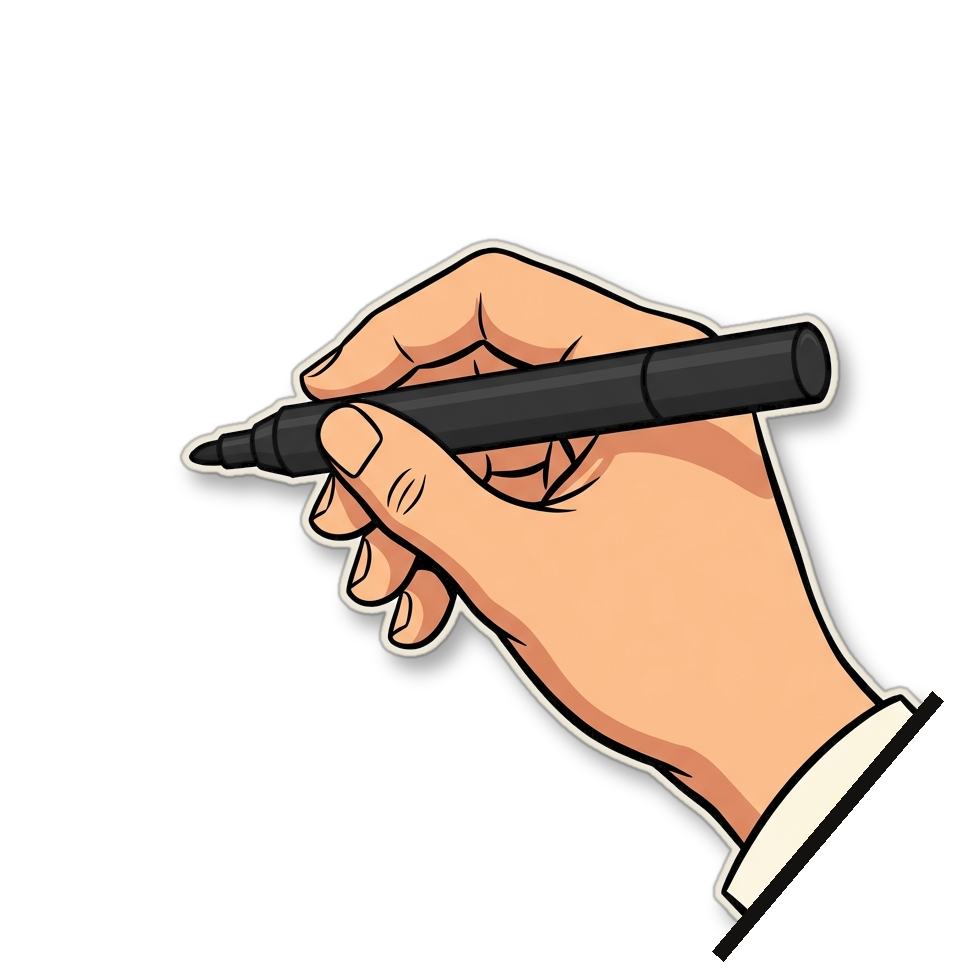
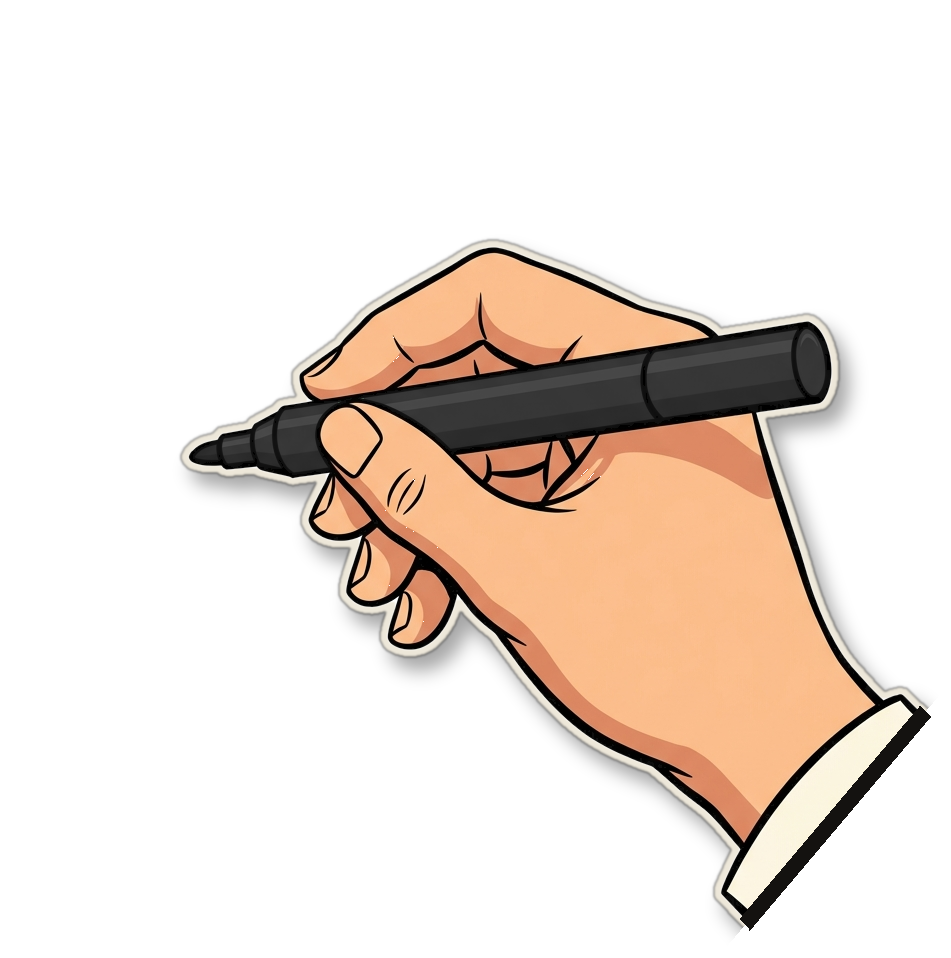
Rule 21: no narrator hand wears Larry's sleeve from Ep.4 on (cuff variants of every sleeved hand, episode config hands.sleeve=false); Ep.4 QC fixes from r77: marks finish inside their shots (o2/c5 holds, chained hands in a5/n1/l5), a6/l3b prices in window B's glass, 67 YEARS inside the frame, a11/z0
Claude-Session: https://claude.ai/code/session_013pWx4qcpXPWropjuHuEZgS

Changed region(s): [[0.183, 0.2422, 1.0, 0.999]]

diff --git a/episodes/0005-drip-pricing/gen_script.py b/episodes/0005-drip-pricing/gen_script.py
@@ -195,7 +195,7 @@ beat("o2", S_OPEN, "Then the fees. Eight. Six. Four.",
                                          write("+ $6 fee", on="Six.", chain=True, dur=0.45, **FEE(FEE_Y[1])),
                                          write("+ $4 fee", on="Four.", chain=True, dur=0.45, **FEE(FEE_Y[2]))]),
      # (Klot, option 2: the fee rows and PAID go on Larry's tab in one pass at b1, "Eighteen dollars of fees")
-     label="Illustration")
+     label="Illustration", hold=0.35)  # the third fee finishes before the cut
 beat("o3", S_OPEN, "Total: forty-eight.",
      reuse("o1", hand_marks=True,  # no push: the fee column stays clear of Larry's tab and of the ILLUSTRATION plate
            marks=[write("$30", at=0.0, **TICKET_PRICE_BOX, color="ink"),
@@ -248,13 +248,13 @@ beat("a4", S_EXP, "For a couple of years before that summer, it showed every fee
      label="Illustration")
 beat("a5", S_EXP, "Then, for twelve days in August 2015, it split its buyers in two.",
      img("a 1950s theatre lobby with a velvet rope splitting a queue of cheerful cartoon ticket buyers into two lines in front of two identical ticket windows, front view",
-         motion="static", hand_marks=True, marks=[write("A", on="split", x=0.30, y=0.20, w=0.05, h=0.08), write("B", on="two.", x=0.70, y=0.20, w=0.05, h=0.08)]),
+         motion="static", hand_marks=True, marks=[write("A", on="split", x=0.30, y=0.20, w=0.05, h=0.08), write("B", on="buyers", chain=True, x=0.70, y=0.20, w=0.05, h=0.08)]),
      label="Aug 19–31, 2015")
 beat("a6", S_EXP, "Half kept the full price on screen. The other half saw the ticket alone, with the fees waiting at checkout.",
      reuse("a5", hand_marks=True, marks=[write("A", at=0.0, x=0.30, y=0.20, w=0.05, h=0.08), write("B", at=0.0, x=0.70, y=0.20, w=0.05, h=0.08),
-                                         write("$48", on="full", x=0.30, y=0.30, w=0.09, h=0.07), write("$30…", on="alone,", x=0.70, y=0.30, w=0.10, h=0.07)],
-           closeup=closeup("fees", [0.70, 0.40], 1.8, [write("B", at=0.0, x=0.70, y=0.20, w=0.05, h=0.08), write("$30…", at=0.0, x=0.70, y=0.30, w=0.10, h=0.07),
-                                                       write("+ fees at checkout", on="checkout.", x=0.70, y=0.40, w=0.20, h=0.05)])),
+                                         write("$48", on="full", x=0.405, y=0.265, w=0.075, h=0.065), write("$30", on="alone,", x=0.605, y=0.255, w=0.07, h=0.06)],
+           closeup=closeup("fees", [0.62, 0.36], 1.7, [write("B", at=0.0, x=0.70, y=0.20, w=0.05, h=0.08), write("$30", at=0.0, x=0.605, y=0.255, w=0.07, h=0.06),
+                                                       write("+ fees", on="waiting", x=0.605, y=0.312, w=0.08, h=0.045)])),  # in window B's glass
      label="Aug 19–31, 2015")
 beat("a7", S_EXP, "Same tickets. Same fees. The only thing that changed was the moment you saw them.", kin())
 beat("a8", S_EXP, "The ones who met the fees late spent almost twenty-one percent more.",
@@ -268,14 +268,15 @@ beat("a10", S_EXP, "And the buyers among them picked seats about five percent pr
          motion="static", hand_marks=True, marks=[write("+5 %", on="five", x=0.70, y=0.40, w=0.10, h=0.07, plate=[1.35, 1.45])]), clip=True),  # cream plate on the seats: the clip's push-in takes the floor away
      pause_at={"word": "five", "sec": 0.5, "hit": "stamp"})
 beat("a11", S_EXP, "A seat looks cheaper when its fees are still offstage, so you pick a better one.",
-     reuse("a10", push={"center": [0.50, 0.55], "zoom": 1.6}),
+     manual(img("last frame of the a10 clip", note="images/a11.png = last frame of clips/a10.mp4", motion="static",
+                push={"center": [0.50, 0.60], "zoom": 1.15})),
      label="Seat choice = at least 28 % of the revenue gap · NBER w25186")
 beat("a12", S_EXP, "Then the fees walk on.",
      manual(img("three small paper price slips with tiny cartoon legs walking onto a 1950s theatre stage in a spotlight, red curtain, playful print-ad style",
          motion="static", hand_marks=True, clip_until=4.0,  # Grok clip: the slips walk to centre stage and stop (frozen at 4.0 s)
-         marks=[write("$8", at=4.05, dur=0.3, x=0.3732, y=0.5499, w=0.065, h=0.09, angle=5.3, color="ink"),
-                write("$6", at=4.47, dur=0.3, chain=True, x=0.4933, y=0.5499, w=0.065, h=0.09, angle=-1.8, color="ink"),
-                write("$4", at=4.89, dur=0.3, chain=True, x=0.6193, y=0.5548, w=0.065, h=0.09, angle=6.1, color="ink")]), clip=True),
+         marks=[write("$8", at=4.05, dur=0.3, x=0.3732, y=0.5499, w=0.065, h=0.09, angle=5.3, color="ink", short={"x": 0.184, "y": 0.544, "angle": -6, "w": 0.06, "h": 0.075, "at": 0.45}),
+                write("$6", at=4.47, dur=0.3, chain=True, x=0.4933, y=0.5499, w=0.065, h=0.09, angle=-1.8, color="ink", short={"x": 0.3, "y": 0.547, "angle": -6, "w": 0.06, "h": 0.075, "at": 0.87}),
+                write("$4", at=4.89, dur=0.3, chain=True, x=0.6193, y=0.5548, w=0.065, h=0.09, angle=6.1, color="ink", short={"x": 0.424, "y": 0.543, "angle": 11, "w": 0.06, "h": 0.075, "at": 1.29})]), clip=True),
      hold=3.6)  # the line, then the three prices go on the stopped slips
 beat("a13", S_EXP, "Twelve days of science. Then the science went live.", kin())
 beat("a14", S_EXP, "On September the first, the whole site switched. Fees at the end, for everyone.",
@@ -286,7 +287,7 @@ beat("a14", S_EXP, "On September the first, the whole site switched. Fees at the
 chapter("t2", S_TM, "Wednesday, ten a.m.", "Wednesday 10:00 AM — $16.4 billion")
 beat("b1", S_TM, "Larry reads his receipt. Eighteen dollars of fees on a forty-eight-dollar ticket.",
      manual(img(f"{LARRY} at a breakfast table frowning at a long paper receipt that unrolls across the table, coffee cup, plain cream background",
-         motion="static", hand_marks=True, marks=[write("$18 FEES", on="Larry", fade_after=0.75, x=0.84, y=0.56, w=0.16, h=0.07)]), clip=True),
+         motion="static", hand_marks=True, marks=[write("$18 FEES", on="Larry", fade_after=0.75, short={"fade_after": None}, x=0.84, y=0.56, w=0.16, h=0.07)]), clip=True),
      ledger=[tab("SERVICE FEE", "+$8.00", "Eighteen", dur=0.42), tab("FACILITY FEE", "+$6.00", "Eighteen", dur=0.42, chain=True),
              tab("PROCESSING FEE", "+$4.00", "Eighteen", dur=0.42, chain=True), tab("PAID", "$48.00", "Eighteen", dur=0.42, chain=True),
              tab("HIDDEN", "$18.00", "Eighteen", dur=0.5, chain=True, loss=True, circle=True)])  # one pass of the tab hand
@@ -345,7 +346,7 @@ beat("c4", S_HOTEL, "from nine to ninety-five dollars, per room, per day.",
 beat("c5", S_HOTEL, "Near the end of booking, the fee sat under a heading that sounded official: Taxes and Fees.",
      reuse("c4", hand_marks=True, marks=[write("$9 – $95 / night", at=0.0, x=0.485, y=0.274, w=0.30, h=0.058)],
            closeup=closeup("booking,", [0.50, 0.62], 1.8, [write("TAXES AND FEES", on="Taxes", x=0.42, y=0.62, w=0.26, h=0.06, color="ink"),
-                                                            circle(0.42, 0.62, 0.30, 0.10, "Fees.", target=[0.29, 0.59, 0.55, 0.65])])))
+                                                            circle(0.42, 0.62, 0.30, 0.10, "Fees.", target=[0.29, 0.59, 0.55, 0.65])])), hold=0.5)
 beat("c6", S_HOTEL, "From customers in D.C. alone, the Attorney General says, that came to millions of dollars.",
      doc("DC Attorney General · press release · July 9, 2019", "Marriott resort fees",
          "Marriott has charged resort fees to tens of thousands of District consumers over the years, totaling millions of dollars.",
@@ -358,7 +359,7 @@ beat("c8", S_HOTEL, "In 2023, Marriott agreed with Texas to show the total price
 # ------------------------------------------------------------------ Why a split price feels cheaper (insert, ~25 s)
 beat("n1", S_BRAIN, "Why does it work? In 1998, three marketing researchers split prices into a base and a surcharge.",
      img("a cream paper price tag being cut into two pieces by a pair of red-handled scissors, plain cream background, 1950s print-ad style",
-         motion="static", hand_marks=True, marks=[write("BASE", on="base", x=0.35, y=0.70, w=0.12, h=0.06), write("+ SURCHARGE", on="surcharge.", x=0.68, y=0.70, w=0.22, h=0.06)]),
+         motion="static", hand_marks=True, marks=[write("BASE", on="split", x=0.35, y=0.70, w=0.12, h=0.06), write("+ SURCHARGE", on="base", chain=True, x=0.68, y=0.70, w=0.22, h=0.06)]),
      label="Morwitz, Greenleaf & Johnson · J. Marketing Research · 1998")
 beat("n2", S_BRAIN, "The total price was the same. It was just served in pieces.",
      reuse("n1", closeup=closeup("served", [0.50, 0.50], 1.6, [write("SAME TOTAL", on="same.", x=0.50, y=0.22, w=0.24, h=0.07)])),
@@ -410,22 +411,23 @@ beat("l3", S_LAW, "In April 2026, StubHub agreed to pay ten million dollars back
      stat(10, "StubHub settlement · FTC · April 2026", prefix="$", suffix="m"),
      pause_at={"word": "ten", "sec": 0.6, "hit": "stamp"})
 beat("l3b", S_LAW, "over fees it showed too late.",
-     reuse("a5", hand_marks=True, push={"center": [0.70, 0.40], "zoom": 1.8},
-           marks=[write("B", at=0.0, x=0.70, y=0.20, w=0.05, h=0.08), write("$30…", at=0.0, x=0.70, y=0.30, w=0.10, h=0.07),
-                  write("+ fees at checkout", at=0.0, x=0.70, y=0.40, w=0.20, h=0.05)]), label="FTC · April 2026 · settlement")
+     reuse("a5", hand_marks=True, push={"center": [0.62, 0.36], "zoom": 1.7},
+           marks=[write("B", at=0.0, x=0.70, y=0.20, w=0.05, h=0.08), write("$30", at=0.0, x=0.605, y=0.255, w=0.07, h=0.06),
+                  write("+ fees", at=0.0, x=0.605, y=0.312, w=0.08, h=0.045)]), label="FTC · April 2026 · settlement")
 beat("l4", S_LAW, "America has done this before. In 1958, a law put a sticker on the window of every new car:",
      arch("car_showroom_1942.jpg", "Car showroom, Pierson Motor Company, Lititz, Pennsylvania, 1942 · Library of Congress", motion="zoom_in"),
      label="Automobile Information Disclosure Act · 1958")
 beat("l5", S_LAW, "the price, every option, the delivery charge, and the total.",
      img("the side window of a 1950s two-tone sedan in a showroom with a large blank paper sticker taped inside the glass, close view",
          motion="static", hand_marks=True,
-         marks=[write("PRICE", on="price,", x=0.50, y=0.30, w=0.16, h=0.05, color="ink"), write("OPTIONS", on="option,", x=0.50, y=0.40, w=0.18, h=0.05, color="ink"),
-                write("DELIVERY", on="delivery", x=0.50, y=0.50, w=0.18, h=0.05, color="ink"), write("TOTAL", on="total.", x=0.50, y=0.62, w=0.16, h=0.06)]),
+         marks=[write("PRICE", on="price,", x=0.50, y=0.30, w=0.16, h=0.05, color="ink"), write("OPTIONS", on="option,", chain=True, x=0.50, y=0.40, w=0.18, h=0.05, color="ink"),
+                write("DELIVERY", on="delivery", chain=True, x=0.50, y=0.50, w=0.18, h=0.05, color="ink"),
+                write("TOTAL", on="total.", chain=True, x=0.50, y=0.62, w=0.16, h=0.06)]),  # one hand writes the list
      label="15 U.S.C. 1232 · 1958")
 beat("l6", S_LAW, "Cars got the total sixty-seven years before concert tickets did.",
      reuse("l5", hand_marks=True, marks=[write("TOTAL", at=0.0, x=0.50, y=0.62, w=0.16, h=0.06),
                                          circle(0.50, 0.62, 0.22, 0.10, "total", target=[0.42, 0.59, 0.58, 0.65]),
-                                         write("67 YEARS", on="sixty-seven", x=0.80, y=0.62, w=0.16, h=0.06)]),
+                                         write("67 YEARS", on="sixty-seven", x=0.56, y=0.185, w=0.17, h=0.06)]),
      pause_at={"word": "sixty-seven", "sec": 0.4, "hit": None})
 beat("l7", S_LAW, "Border two: Britain. Since April 2025, the price must include every fee you can't avoid.",
      reuse("l1", hand_marks=True, marks=[stamp('USA · TOTAL UPFRONT · MAY 2025', 0.35, 0.445, at=0.0, angle=-8, w=0.18), stamp('UK · ALL FEES IN · APRIL 2025', 0.585, 0.58, on='include', angle=6, w=0.18)]))
@@ -457,8 +459,8 @@ beat("l14", S_LAW, "One ticket. Three stamps. One message: show the total.",
 chapter("t6", S_CHECK, "Saturday, ten a.m.", "Saturday 10:00 AM — Three checks")
 beat("x1", S_CHECK, "Three checks before you pay. One. Look for the all-in switch.",
      manual(img("a big chrome 1950s toggle switch on a cream enamel panel, switched to the left, studio lighting, plain background",
-         motion="static", hand_marks=True, marks=[write("ALL-IN PRICES", on="all-in", **X1_TOP), write("OFF", on="One.", **X1_OFF),
-                                                  write("ON", at=4.25, dur=0.35, chain=True, **X1_ON)]), clip=True))  # Grok clip: the lever flips right ~4 s, ON goes on after the click
+         motion="static", hand_marks=True, marks=[write("ALL-IN PRICES", on="checks", **X1_TOP), write("OFF", on="One.", **X1_OFF),
+                                                  write("ON", at=4.25, dur=0.35, **X1_ON)]), clip=True))  # Grok clip: the lever flips right ~4 s, ON goes on after the click
 beat("x2", S_CHECK, "Some ticket sites can show prices with fees included. Turn it on before you browse, not after you've fallen for a seat.",
      manual(img("the last frame of the x1 clip: the switch now set to the right (ON)", note="images/x2.png = last frame of clips/x1.mp4",
          motion="static", hand_marks=True, marks=[write("ALL-IN PRICES", at=0.0, **X2_TOP), write("OFF", at=0.0, **X2_OFF), write("ON", at=0.0, **X2_ON)],
@@ -477,7 +479,8 @@ beat("z0", S_CLOSE, "Case closed. Larry paid forty-eight dollars for a thirty-do
          motion="zoom_in"), clip=True), stamp={"text": "Case closed", "on": "Case", "big": True, "x": 0.685, "y": 0.165, "w": 0.21},  # dark upper right, left of where Larry's tab grows
      hero=True)  # Larry's hand and ticket fill the frame: the tab steps aside (no hand near his hands)
 beat("z0b", S_CLOSE, "He went to the concert anyway. The band was worth thirty. The checkout was worth nothing. Now he knows where the eighteen went.",
-     reuse("z0", push={"center": [0.45, 0.40], "zoom": 1.6}, closeup=closeup("checkout", [0.58, 0.62], 2.0)), hero=True)
+     manual(img("last frame of the z0 clip", note="images/z0b.png = last frame of clips/z0.mp4", motion="static",
+                push={"center": [0.45, 0.40], "zoom": 1.1}, closeup=closeup("checkout", [0.76, 0.43], 1.3))), hero=True)  # on the ticket
 ES = {"number": "004", "title": "The fee at the end", "stamp": "Case closed",
       # four lines at the Ep.3 letter size, each written from its first spoken word (real-voice word times)
       "verdict": ["Guilty: the checkout fee", "and its cousin, the resort fee.", "Accomplice:", "the first number on the screen."],
@@ -500,7 +503,7 @@ beat("z5", S_CLOSE, "Subscribe, so the next case file finds you.", {"type": "con
 LONG = {b["id"]: b for b in B}
 
 
-def L(bid, text=None, keep=("punch", "pause_at", "sfx_at", "sfx", "say", "stamp", "label", "ledger", "alleged"), **kw):
+def L(bid, text=None, keep=("punch", "pause_at", "sfx_at", "sfx", "say", "stamp", "label", "ledger", "alleged", "hold"), **kw):
     src = LONG[bid]
     v = src["visual"]
     if v["type"] in ("image", "archive", "clip"):
@@ -526,7 +529,7 @@ SHORTS = [
      "beats": [L("o1"), L("o2"), L("o3"), L("m1"), L("b6"), L("o1", text="So before you pay thirty, ask what it costs.", keep=())]},
     {"id": "s2", "title": "StubHub tested hidden fees on its own buyers #shorts", "hook": "THEY TESTED IT ON YOU", "hook_on": "a5",
      "beats": [L("a5", text="StubHub showed every fee upfront. Then, for twelve days in August 2015, it split its buyers in two."),
-               L("a6"), L("a8"), L("a9"), L("a10"), L("a12"), L("a14")]},
+               L("a6"), L("a8"), L("a9"), L("a10"), L("a12", hold=0.6), L("a14")]},
     {"id": "s3", "title": "$16.4 billion in fees (alleged) #shorts", "hook": "$16.4 BILLION", "hook_on": "b5",
      "beats": [L("b1"), L("b2"), L("b3"), L("b4"), L("b5"), L("b9"), L("b6")]},
     {"id": "s4", "title": "A resort fee at a city hotel #shorts", "hook": "RESORT FEE?", "hook_on": "c1",
@@ -543,7 +546,8 @@ for sh in SHORTS:
         b["id"] = f"{sh['id']}_{k}"
 
 ep = {
-    "config": {"ledger": {"hand": "ink_cuff", "hand_scale": 0.43, "from": "right"}},  # plain cuff hand, from the right edge
+    "config": {"ledger": {"hand": "ink_cuff", "hand_scale": 0.43, "from": "right"},  # plain cuff hand, from the right edge
+               "hands": {"sleeve": False}},  # rule 21: Larry's jacket belongs only to Larry
     "slug": "0005-drip-pricing",
     "title": "The $30 Ticket That Costs $48",
     "description": "Case file #004: the fee at the end. Larry (fictional) buys a $30 concert ticket and pays $48. StubHub's own 2015 experiment, the FTC's case against Ticketmaster (alleged), Marriott's city-hotel resort fees (alleged), why a split price feels cheaper, one ticket stamped by three laws — and three checks before you pay.",

diff --git a/factory/draw.py b/factory/draw.py
@@ -42,9 +42,25 @@ def _hand(kind: str, height: int, mirrored: bool) -> tuple[np.ndarray, tuple[int
     return np.array(img), (int(tx), int(ty))
 
 
+# Rule (Ep.4 on): no narrator hand wears Larry's yellow check sleeve. With NO_SLEEVE the sleeved hands are swapped for
+# the same hand cut at its white cuff (assets/hands/hand_<kind>_cuff.png). Set per episode: config "hands": {"sleeve": false}.
+NO_SLEEVE = False
+SLEEVED = ("ink", "colour", "marker", "ink_under", "marker_under", "stamp")
+
+
+def hand_kind(kind: str) -> str:
+    return f"{kind}_cuff" if NO_SLEEVE and kind in SLEEVED else kind
+
+
+def set_hand_style(cfg: dict) -> None:
+    global NO_SLEEVE
+    NO_SLEEVE = not bool((cfg.get("hands") or {}).get("sleeve", True))
+
+
 def paste_hand(frame: np.ndarray, kind: str, x: float, y: float, mirrored: bool, scale: float = 1.0) -> None:
     """Paste the hand so that its pencil tip sits at (x, y) on the frame (scale < 1 for small props)."""
     from .text import blend
+    kind = hand_kind(kind)
     H = min(frame.shape[0], frame.shape[1])  # Shorts: sized to the picture window, not the tall frame
     img, (tx, ty) = _hand(kind, int(H * HAND_HEIGHT * scale), mirrored)
     blend(frame, img, int(x - tx), int(y - ty), opacity=1.0)
@@ -393,7 +409,7 @@ def stamp_press(frame: np.ndarray, impression: np.ndarray, cx: float, cy: float,
     if not (w0 <= t <= w1):
         return
     height = int(max(iw, ih) * 1.12 / STAMP_RUBBER_W)
-    img, (tx, ty) = _hand("stamp", height, False)
+    img, (tx, ty) = _hand(hand_kind("stamp"), height, False)
     if t < t_press:
         lift = (1 - ease((t - w0) / STAMP_IN)) * (cy + H * 0.15)
     elif t <= t_press + STAMP_HOLD:

diff --git a/factory/render.py b/factory/render.py
@@ -313,6 +313,8 @@ def still_runs(plan: Plan, limit: float = 8.0) -> list[tuple[float, float, str]]
 
 
 def build_plan(beats, voiced, images, cfg, size, kind, beat_lookup, extra_pause: float = 0.0) -> Plan:
+    from .draw import set_hand_style
+    set_hand_style(cfg)  # Ep.4 on: narrator hands without Larry's sleeve
     vcfg = cfg["video"]
     reveal_hits = []  # (beat index, word time, sfx) after inserted pauses
     voiced = list(voiced)
@@ -412,8 +414,8 @@ def build_plan(beats, voiced, images, cfg, size, kind, beat_lookup, extra_pause:
                 capv = visual if vtype == "archive" else beat_lookup[visual["beat"]]["visual"]
                 if capv.get("caption"):
                     plan.plates.append((shot_start, shot_end, str(capv["caption"])))  # captioned archive prints: a big push would slide the caption into the subtitles
-            marks = [dict({**m, **((m.get("short") or {}) if kind == "short" else {})}, at=_timed(m, v["words"], 0.6) + lead_in)
-                     for m in (visual.get("marks") or [])]  # "short": {x, y, ...} = the mark's place in the Shorts' square window
+            marks = [{**m, **((m.get("short") or {}) if kind == "short" else {})} for m in (visual.get("marks") or [])]
+            marks = [dict(m, at=_timed(m, v["words"], 0.6) + lead_in) for m in marks]  # "short": {x, y, at, ...} = Shorts placement
             for m in marks:  # a label that is replaced when another word is spoken
                 if m.get("until_on"):
                     wt = word_time(v["words"], m["until_on"])

diff --git a/docs/PRODUCTION_RULES.md b/docs/PRODUCTION_RULES.md
@@ -121,3 +121,8 @@ must report zero before a final render.
     label or plate letter is code-drawn on top (marks, plates, composited props in make_edits.py) — e.g. Ep.4's laptop
     screen is generated blank and the checkout page is drawn on it; the learner car's "L" is written by our hand.
     Prompts carry no notes in brackets: production notes go in the visual's "note" field.
+21. Larry's jacket belongs only to Larry. From Ep.4 on, no narrator hand (pen, marker, stamp, ledger, end-screen click)
+    wears Larry's yellow check sleeve: every hand ends at a plain white cuff (assets/hands/hand_<kind>_cuff.png,
+    switched on per episode with config "hands": {"sleeve": false}). Larry's tab is written by the small cuff hand
+    sliding in from the right edge only as far as the card (config "ledger": {"hand": "ink_cuff", "from": "right"}).
+    Ep.3 stays as released.
